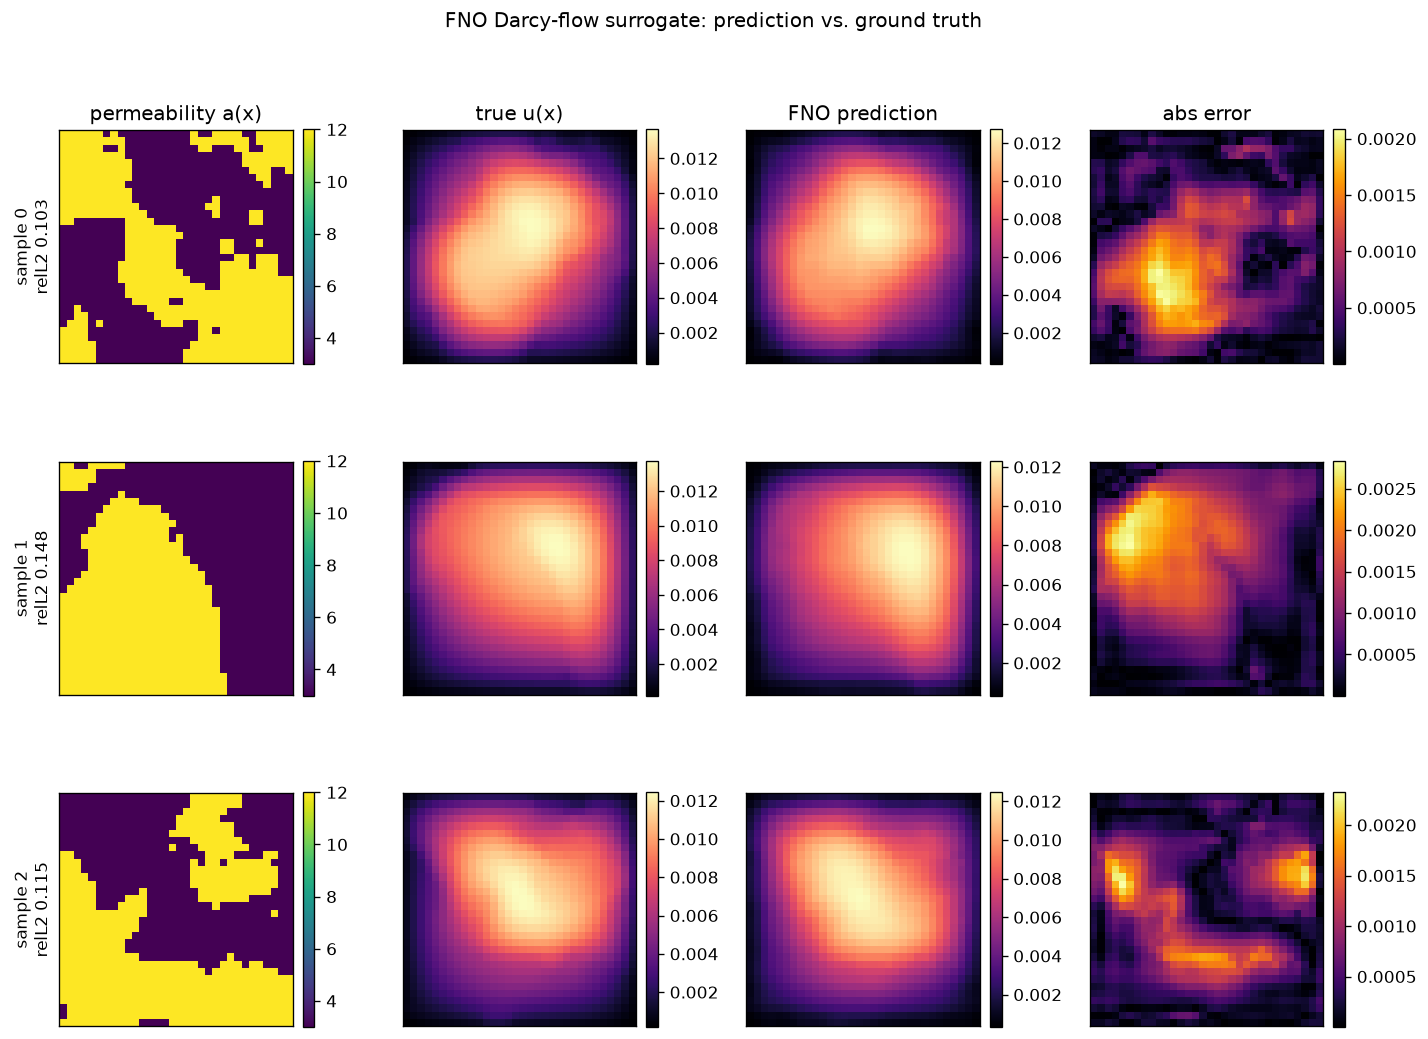
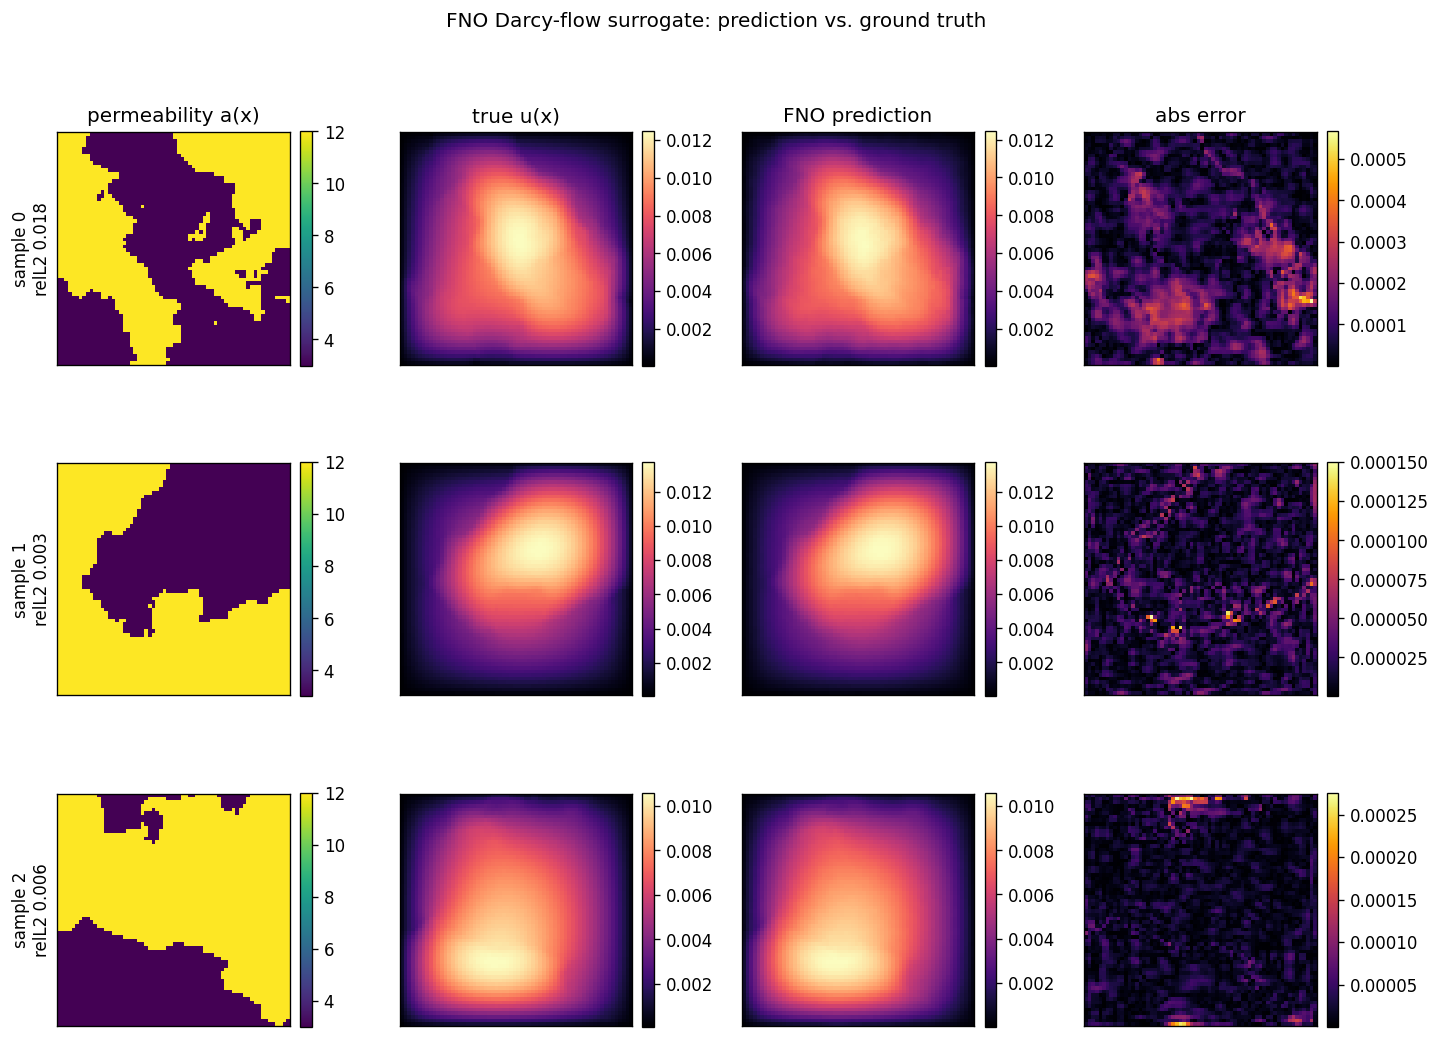
Add GPU-rendered figures and fix two misleading plots
Replace the CPU-rendered prediction figure with the 2x T4 one (per-sample relL2
0.003-0.018, error maps ~5e-4) and commit the scaling and memory-vs-model-size
plots. Sync the scaling table to the final run (1.50x).

Two plot fixes so the figures don't overclaim:
- crossover: only title the chart "where DDP runs out of memory" when an OOM was
  actually observed; otherwise state plainly what is shown.
- benchmark: comparing strategies at one world size produced a degenerate
  single-x throughput scatter saved under a "memory" filename. Render a
  two-panel bar chart (throughput and peak memory) instead, which is what the
  DDP-vs-FSDP trade actually looks like.

diff --git a/src/benchmark.py b/src/benchmark.py
@@ -102,6 +102,43 @@ def format_table(results: list[dict]) -> str:
     return "\n".join(lines)
 
 
+def _plot_strategy_bars(results: list[dict], out: Path) -> None:
+    """Single world size, several strategies: show the trade directly as bars.
+
+    A throughput-vs-GPU line would be a single x value here, which says nothing;
+    what matters when comparing DDP against FSDP is speed *and* memory side by side.
+    """
+    import matplotlib
+    matplotlib.use("Agg")
+    import matplotlib.pyplot as plt
+
+    results = sorted(results, key=lambda r: r.get("parallel", ""))
+    labels = [r.get("parallel", "ddp").upper() for r in results]
+    tp = [r["throughput_samples_per_s"] for r in results]
+    mem = [r.get("peak_mem_mb") or 0 for r in results]
+    colours = ["tab:blue", "tab:orange", "tab:green"][: len(results)]
+
+    fig, axes = plt.subplots(1, 2, figsize=(9, 4.2))
+    for ax, vals, title, unit in (
+        (axes[0], tp, "Throughput (higher is better)", "samples/s"),
+        (axes[1], mem, "Peak memory per GPU (lower is better)", "MB"),
+    ):
+        ax.bar(labels, vals, color=colours)
+        ax.set_title(title, fontsize=11)
+        ax.set_ylabel(unit)
+        for i, v in enumerate(vals):
+            ax.annotate(f"{v:,.0f}", (i, v), ha="center",
+                        textcoords="offset points", xytext=(0, 4), fontsize=9)
+        ax.margins(y=0.15)
+        ax.grid(alpha=0.3, axis="y")
+    k = results[0]["world_size"]
+    fig.suptitle(f"DDP vs FSDP on {k} GPUs — sharding trades speed for memory")
+    fig.tight_layout()
+    out.parent.mkdir(parents=True, exist_ok=True)
+    fig.savefig(out, dpi=130)
+    print(f"wrote {out}")
+
+
 def make_plot(results: list[dict], out: Path) -> None:
     """Throughput vs GPU count, one line per strategy, against ideal linear scaling."""
     import matplotlib
@@ -111,6 +148,10 @@ def make_plot(results: list[dict], out: Path) -> None:
     by_mode: dict[str, list[dict]] = {}
     for r in results:
         by_mode.setdefault(r.get("parallel", "ddp"), []).append(r)
+
+    # Comparing strategies at one world size is a bar chart, not a scaling curve.
+    if len({r["world_size"] for r in results}) == 1 and len(by_mode) > 1:
+        return _plot_strategy_bars(results, out)
 
     fig, ax = plt.subplots(figsize=(7, 4.5))
     base = min(results, key=lambda r: r["world_size"])["throughput_samples_per_s"]

diff --git a/src/crossover.py b/src/crossover.py
@@ -150,7 +150,10 @@ def make_plot(rows: list[dict], out: Path) -> None:
                             ha="center", fontsize=9, color=colour)
     ax.set_xlabel("model width (channels)")
     ax.set_ylabel("peak memory per GPU (MB)")
-    ax.set_title("Where data parallelism runs out of memory and sharding doesn't")
+    # Only claim an OOM in the title if one was actually observed.
+    oomed = any(r["status"] == "oom" for r in rows)
+    ax.set_title("Where data parallelism runs out of memory and sharding doesn't" if oomed
+                 else "Peak GPU memory: replicated (DDP) vs sharded (FSDP)")
     ax.grid(alpha=0.3)
     if ax.get_legend_handles_labels()[1]:  # no labelled lines when nothing recorded memory
         ax.legend()

diff --git a/README.md b/README.md
@@ -97,8 +97,10 @@ per-GPU batch 16:
 
 | Strategy | GPUs | epoch time (s) | throughput (samples/s) | peak mem/GPU (MB) | val relL2 | speed-up |
 |----------|------|----------------|------------------------|-------------------|-----------|----------|
-| single GPU | 1 | 1.14 | 951 | 192 | 0.0144 | 1.00× |
-| DDP ×2 | 2 | 0.77 | 1,411 | 202 | 0.0167 | 1.48× |
+| single GPU | 1 | 1.13 | 954 | 192 | 0.0144 | 1.00× |
+| DDP ×2 | 2 | 0.76 | 1,429 | 202 | 0.0167 | 1.50× |
+
+![throughput scaling vs. ideal linear](docs/scaling.png)
 
 **Scaling analysis.** Two GPUs give a **~1.5× throughput speed-up** (epoch time
 1.14s → 0.77s; repeat runs on shared Kaggle hardware land between 1.48× and
@@ -123,6 +125,8 @@ Measured at the `large` preset (modes 24, width 64 — 37.8M params), 30 epochs:
 |----------|----------------|------------------------|-------------------|-----------|
 | DDP ×2 | 4.63 | 233 | 925 | 0.0151 |
 | FSDP ×2 | 6.04 | 179 | **495** | 0.0151 |
+
+![DDP vs FSDP: throughput and memory](docs/scaling_memory.png)
 
 FSDP is **23% slower and uses 1.9× less memory, at bit-comparable accuracy**
 (0.0151 both) — the sharding trade in one table. The identical validation error is
@@ -161,6 +165,8 @@ per GPU. Measured on **2× Tesla T4 (15,360 MB each)**, modes=24, micro-batch 4:
 | 128 | 151.1M | 3,644 MB | 1,714 MB | 2.13× |
 | 192 | 339.9M | 8,176 MB | 3,593 MB | 2.28× |
 | 256 | 604.3M | **14,522 MB** (95% of the card) | 6,371 MB | 2.28× |
+
+![peak GPU memory: DDP vs FSDP across model sizes](docs/crossover.png)
 
 **FSDP consistently holds ~2.2× less memory per GPU at identical accuracy** — very
 close to the theoretical 2× for a 2-rank ZeRO-3 shard, confirming parameters,
